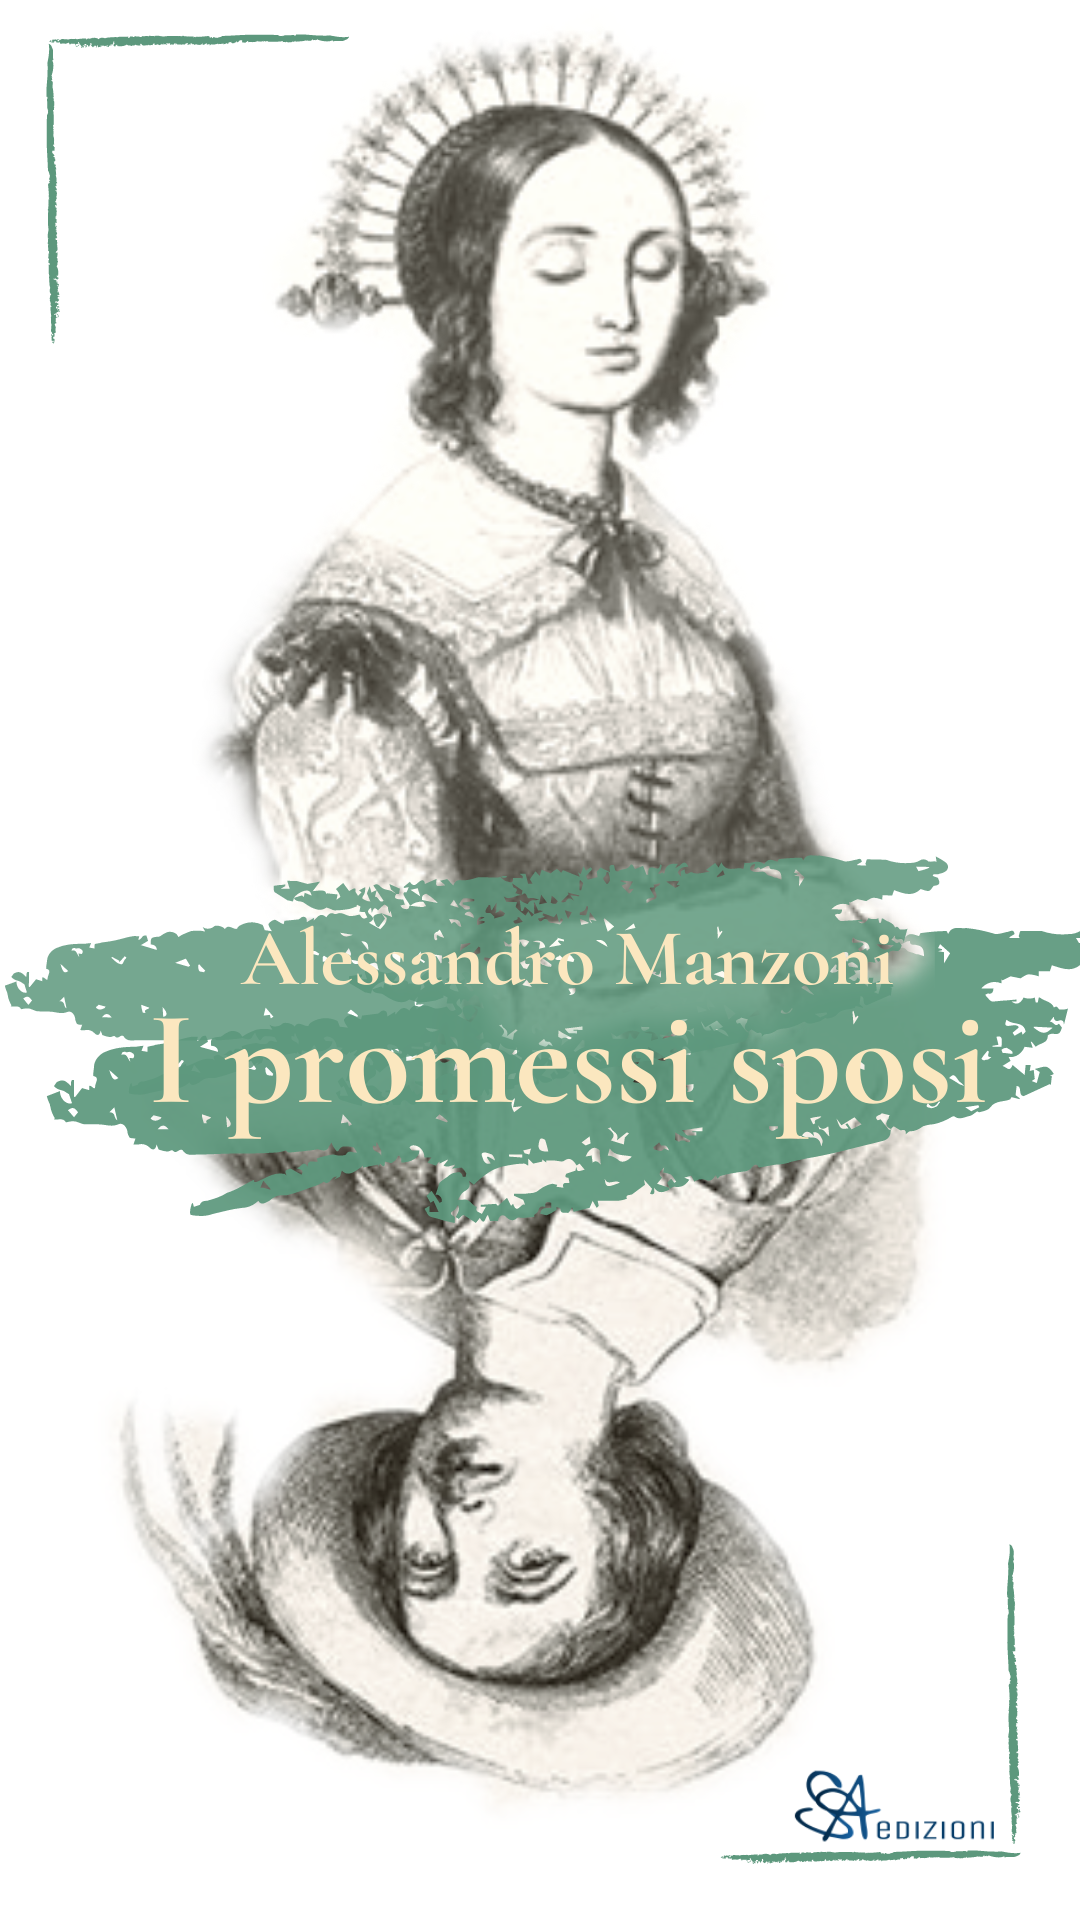
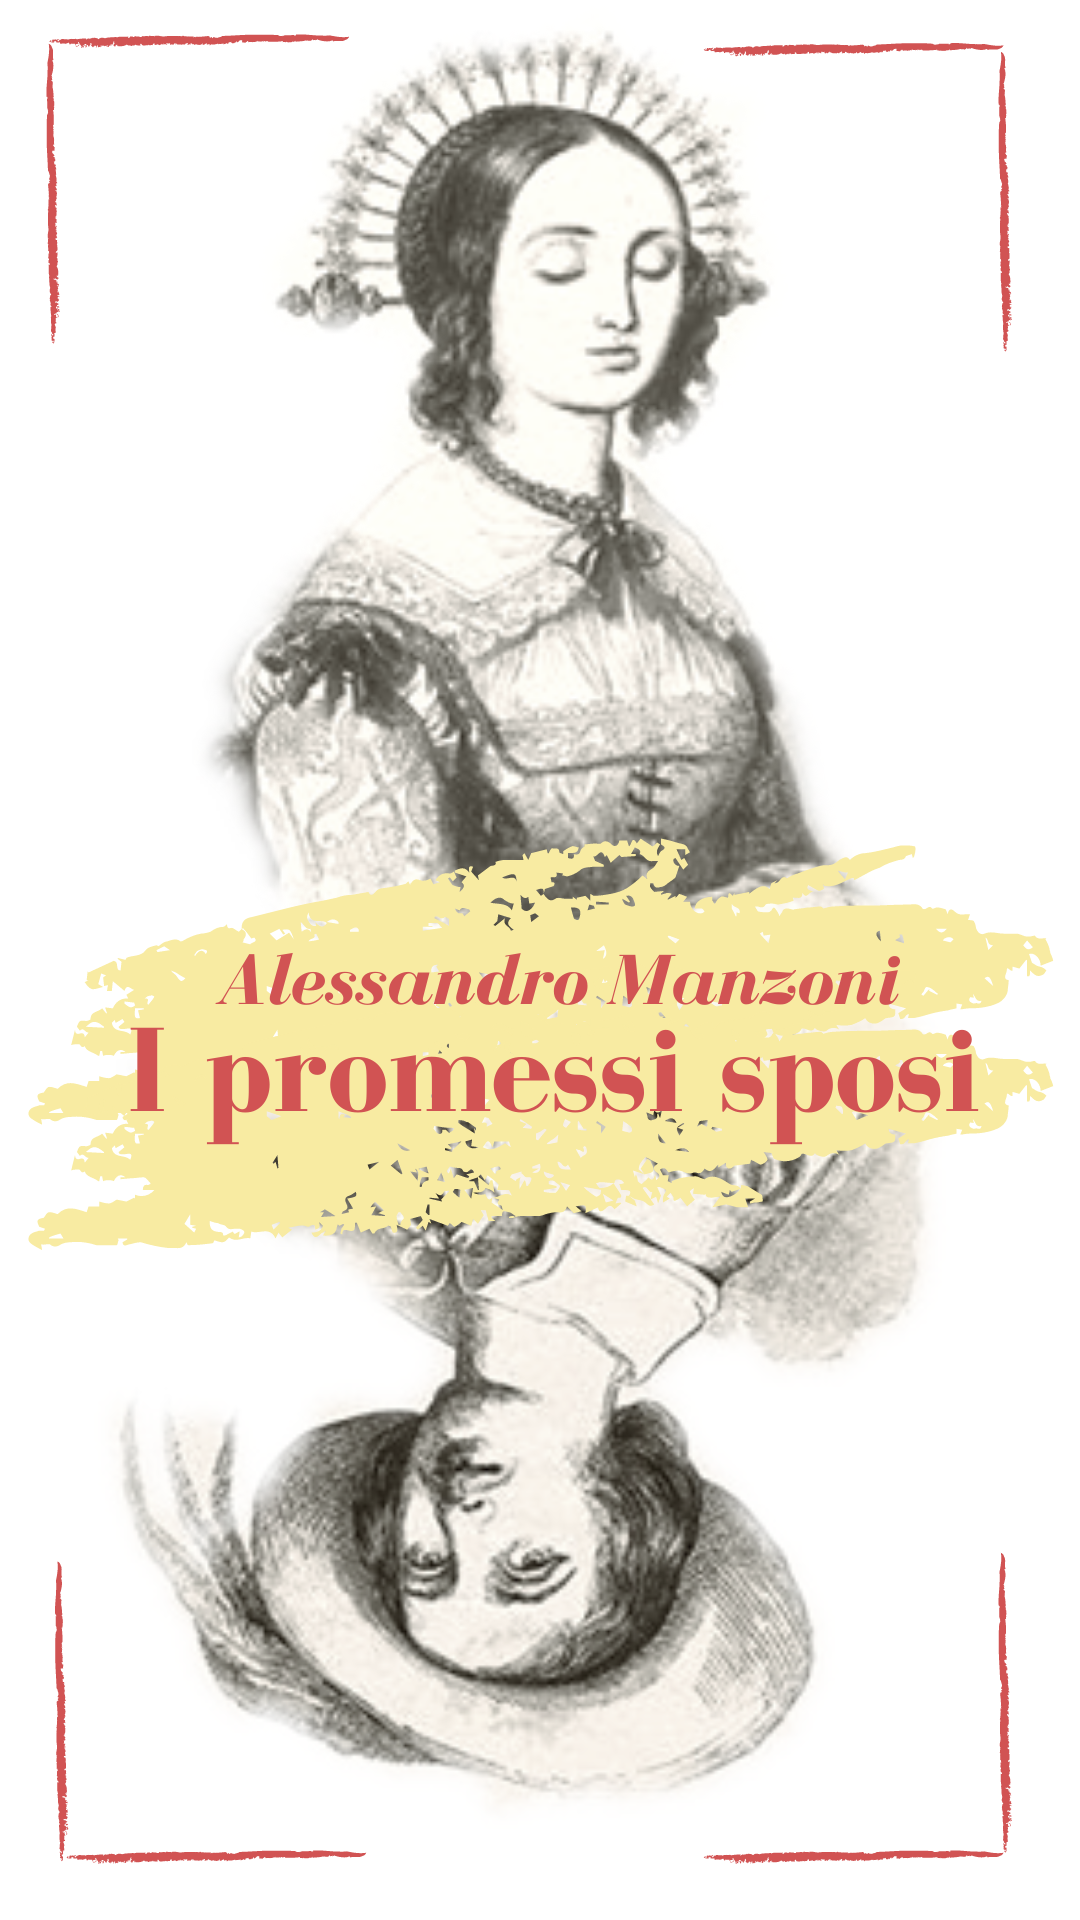
mh,nkml

diff --git a/index.html b/index.html
@@ -203,10 +203,9 @@
 					<img  class="image-example" src="img/book-cover-example.png" alt="example of book cover">
 				<pre><code>
 		
-					
-		@font-face
-			{font-family: BodoniFLF-BoldItalic;
-			src: url('font/BodoniFLF-BoldItalic.ttf') format('truetype');}
+
+@font-face{font-family: BodoniFLF-BoldItalic;
+           src: url('font/BodoniFLF-BoldItalic.ttf') format('truetype');}
 		@font-face 
 			{font-family: BodoniFLF-Bold;
 			src: url('font/BodoniFLF-Bold.ttf') format('truetype');}
@@ -322,15 +321,15 @@
 		
 		.title{font-family: BodoniFLF-Bold;
 				font-size: 34px;
-				margin-top: -35px;  
+				margin-top: -33px;  
 				text-align: center;    
 				}
 		
 		.text-cover{position: absolute; 
 					white-space: nowrap;
 					margin-top: 16.5%; 
-					margin-left: 42%;
-					color:FBE7BF;
+					margin-left: 41.5%;
+					color:#D15353;
 				   }
 		
 		.logo{position: absolute;

diff --git a/stylesheet.css b/stylesheet.css
@@ -431,7 +431,7 @@ margin-top:15%;
 .image-example{width:300px;
 }
 .image-example2{text-align:center;
-        margin-left:-18%;
+       margin-left:-34%;
         width:300px;}
 
 pre{text-align:justify;
@@ -442,18 +442,19 @@ font-size:20px;}
 .sezione4{ background-color: FDFFD6;
         padding-top:8%;
         text-align: center;
-        padding-bottom: 10%;}
+      }
 
 .conclusion{font-family:  FrankRuhlLibre-Light;
 padding-left: 10%;
-padding-right: 10%;}
+padding-right: 10%;
+font-size:18px;}
 
 .contatti{padding-bottom:5%;
 box-align:center;}
 .img-contatti{width:50px;
 
 }
-.contatti2{font-family: Chonburi-Regular;
+.contatti2{font-family: Coustard-Regular;
         color:black;}
 
 

diff --git a/stylesheet-smartphone.css b/stylesheet-smartphone.css
@@ -21,15 +21,15 @@
 
 .title{font-family: BodoniFLF-Bold;
         font-size: 34px;
-        margin-top: -35px;  
+        margin-top: -33px;  
         text-align: center;    
         }
 
 .text-cover{position: absolute; 
         white-space: nowrap;
         margin-top: 16.5%; 
-        margin-left: 42%;
-        color:FBE7BF;
+        margin-left: 41.5%;
+        color:#D15353;
         }
 
 .logo{position: absolute;
